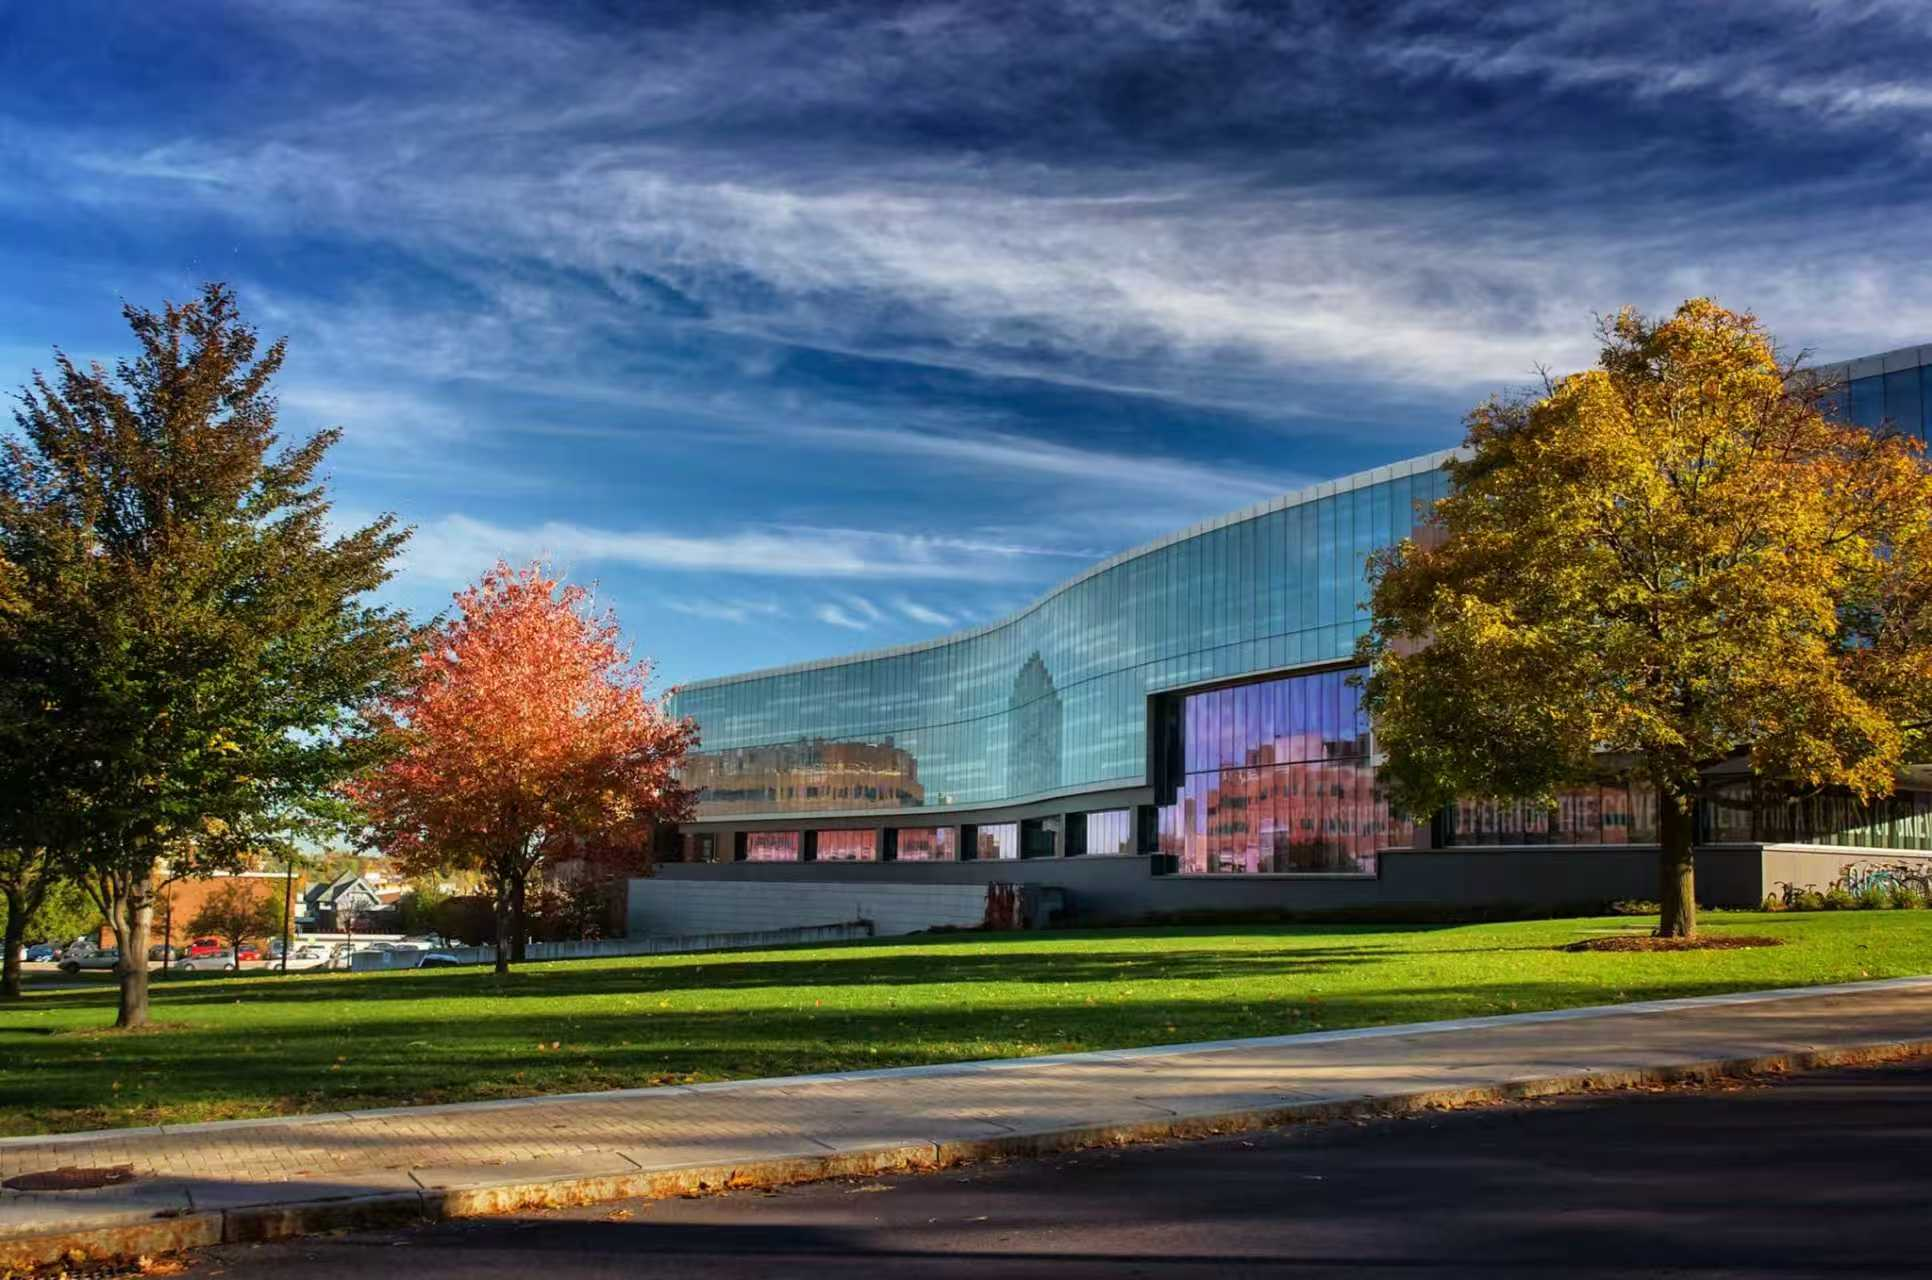
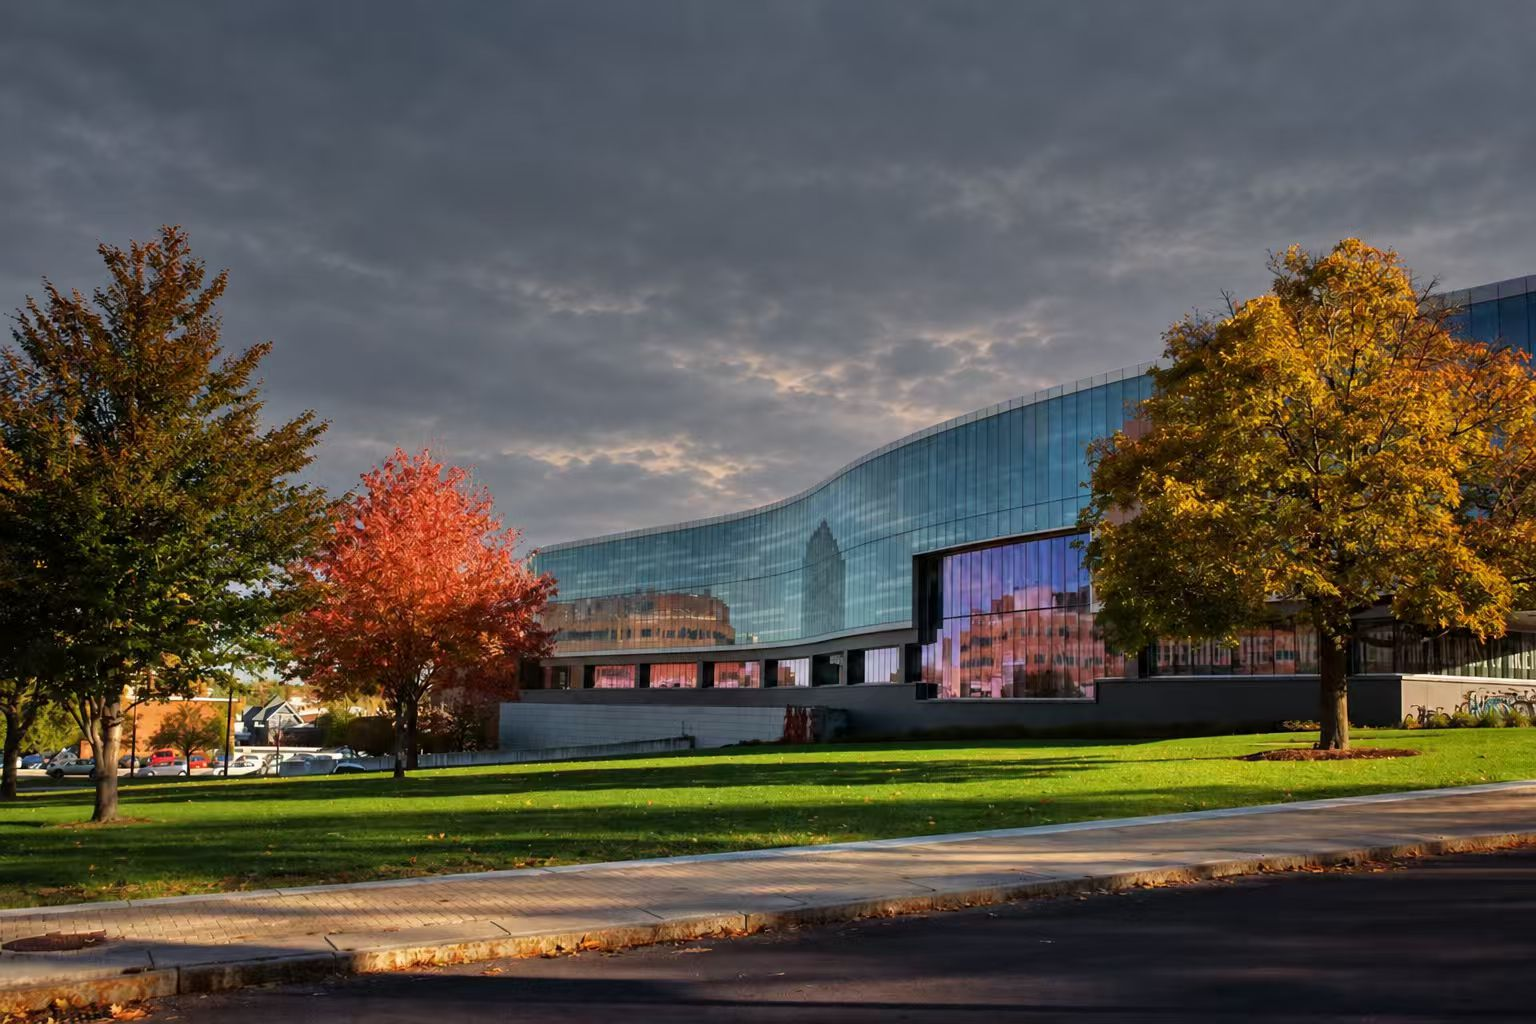
Use the new cloudy-sky hero photos and stop the line animation
- The hero shows the new autumn and winter photos directly. They carry
  their own sky, so the sky cutouts and the matting scripts are removed.
- The flowing-line backdrop no longer animates: it is drawn once on the
  inner pages and redrawn only on resize. The hero no longer uses it.

diff --git a/src/components/FlowLines.tsx b/src/components/FlowLines.tsx
@@ -7,19 +7,16 @@ type Bundle = {
   spread: number; // bundle thickness, fraction of height
   amp: number; // main wave amplitude, fraction of height
   waves: number; // main wave periods across the width
-  speed: number;
   phase: number;
 };
 
-// Two silk-like bundles drifting in opposite directions.
+// Two silk-like bundles of curves.
 const BUNDLES: Bundle[] = [
-  { y: 0.2, tilt: 0.12, lines: 20, spread: 0.26, amp: 0.07, waves: 0.85, speed: 0.05, phase: 0 },
-  { y: 0.52, tilt: -0.2, lines: 15, spread: 0.18, amp: 0.05, waves: 1.15, speed: -0.04, phase: 2.4 },
+  { y: 0.2, tilt: 0.12, lines: 20, spread: 0.26, amp: 0.07, waves: 0.85, phase: 0 },
+  { y: 0.52, tilt: -0.2, lines: 15, spread: 0.18, amp: 0.05, waves: 1.15, phase: 2.4 },
 ];
 
-const FRAME_MS = 1000 / 30;
-
-/** Dark night backdrop with faint, slowly flowing lines. */
+/** Dark night backdrop with faint, static flowing lines. Redrawn only on resize. */
 export default function FlowLines({ className = '' }: { className?: string }) {
   const canvasRef = useRef<HTMLCanvasElement>(null);
 
@@ -28,15 +25,12 @@ export default function FlowLines({ className = '' }: { className?: string }) {
     const context = canvas?.getContext('2d');
     if (!canvas || !context) return;
 
-    const reducedMotion = window.matchMedia('(prefers-reduced-motion: reduce)');
-    let width = 0;
-    let height = 0;
-    let dpr = 1;
-    let raf = 0;
-    let last = 0;
-
-    const draw = (time: number) => {
-      const t = time / 1000;
+    const draw = () => {
+      const dpr = Math.min(window.devicePixelRatio || 1, 2);
+      const width = canvas.clientWidth;
+      const height = canvas.clientHeight;
+      canvas.width = Math.round(width * dpr);
+      canvas.height = Math.round(height * dpr);
       context.setTransform(dpr, 0, 0, dpr, 0, 0);
 
       const sky = context.createLinearGradient(0, 0, 0, height);
@@ -57,12 +51,12 @@ export default function FlowLines({ className = '' }: { className?: string }) {
           context.beginPath();
           for (let x = -step; x <= width + step; x += step) {
             const u = x / width;
-            const breathe = 1 + 0.32 * Math.sin(u * 2.6 + t * b.speed * 5 + b.phase);
+            const breathe = 1 + 0.32 * Math.sin(u * 2.6 + b.phase);
             const y = height * (
               b.y + b.tilt * u
               + k * b.spread * breathe
-              + b.amp * Math.sin(u * b.waves * Math.PI * 2 + t * b.speed * 8 + b.phase + k * 0.9)
-              + 0.018 * Math.sin(u * 7.3 - t * b.speed * 6 + k * 2.2)
+              + b.amp * Math.sin(u * b.waves * Math.PI * 2 + b.phase + k * 0.9)
+              + 0.018 * Math.sin(u * 7.3 + k * 2.2)
             );
             if (x === -step) context.moveTo(x, y);
             else context.lineTo(x, y);
@@ -72,42 +66,9 @@ export default function FlowLines({ className = '' }: { className?: string }) {
       }
     };
 
-    const frame = (time: number) => {
-      raf = requestAnimationFrame(frame);
-      if (time - last < FRAME_MS) return;
-      last = time;
-      draw(time);
-    };
-
-    const start = () => {
-      cancelAnimationFrame(raf);
-      raf = 0;
-      if (reducedMotion.matches || document.hidden) draw(0);
-      else raf = requestAnimationFrame(frame);
-    };
-
-    const resize = () => {
-      dpr = Math.min(window.devicePixelRatio || 1, 2);
-      width = canvas.clientWidth;
-      height = canvas.clientHeight;
-      canvas.width = Math.round(width * dpr);
-      canvas.height = Math.round(height * dpr);
-      draw(performance.now());
-    };
-
-    const observer = new ResizeObserver(resize);
+    const observer = new ResizeObserver(draw);
     observer.observe(canvas);
-    resize();
-    start();
-    document.addEventListener('visibilitychange', start);
-    reducedMotion.addEventListener('change', start);
-
-    return () => {
-      cancelAnimationFrame(raf);
-      observer.disconnect();
-      document.removeEventListener('visibilitychange', start);
-      reducedMotion.removeEventListener('change', start);
-    };
+    return () => observer.disconnect();
   }, []);
 
   return <canvas ref={canvasRef} className={`flow-lines ${className}`} aria-hidden="true" />;

diff --git a/src/components/RevealLayer.tsx b/src/components/RevealLayer.tsx
@@ -12,15 +12,14 @@ const SPOTLIGHT_STOPS: [number, number][] = [
   [0, 1], [0.4, 1], [0.6, 0.75], [0.75, 0.4], [0.88, 0.12], [1, 0],
 ];
 
-/** The photographs ship pre-matted (transparent sky), so they only need decoding. */
-async function loadCutout(src: string) {
+async function loadPhoto(src: string) {
   const image = new Image();
   image.src = src;
   await image.decode();
   return image;
 }
 
-/** Mix the two foregrounds in one canvas, above a single independent sky. */
+/** Show the autumn photo, with the winter one revealed in a soft circle under the cursor. */
 export default function RevealLayer({ autumnImage, winterImage, radius = 260 }: RevealLayerProps) {
   const canvasRef = useRef<HTMLCanvasElement>(null);
 
@@ -67,8 +66,7 @@ export default function RevealLayer({ autumnImage, winterImage, radius = 260 }: 
         mask.addColorStop(offset, `rgba(0, 0, 0, ${alpha})`);
       });
 
-      // Both operations finish in this frame; no CSS mask or second animated
-      // sky is involved. Sky pixels remain transparent through the whole mix.
+      // Both operations finish in this frame; no CSS mask is involved.
       context.globalCompositeOperation = 'destination-out';
       context.fillStyle = mask;
       context.fillRect(left, top, w, h);
@@ -81,7 +79,7 @@ export default function RevealLayer({ autumnImage, winterImage, radius = 260 }: 
       bufferContext.fillRect(0, 0, width, height);
 
       // Add premultiplied contributions A*(1-mask) + W*mask. Source-over
-      // would apply the feather twice and leak the sky through opaque scenery.
+      // would apply the feather twice and leave a dark ring in the blend.
       context.globalCompositeOperation = 'lighter';
       context.drawImage(winterBuffer, 0, 0);
       context.globalCompositeOperation = 'source-over';
@@ -128,7 +126,7 @@ export default function RevealLayer({ autumnImage, winterImage, radius = 260 }: 
     });
     resizeObserver.observe(canvas);
 
-    void Promise.all([loadCutout(autumnImage), loadCutout(winterImage)]).then(([autumn, winter]) => {
+    void Promise.all([loadPhoto(autumnImage), loadPhoto(winterImage)]).then(([autumn, winter]) => {
       if (disposed) return;
       photos = [autumn, winter];
       canvas.width = winterBuffer.width = autumn.naturalWidth;

diff --git a/src/pages/Home.tsx b/src/pages/Home.tsx
@@ -1,8 +1,7 @@
-import FlowLines from '../components/FlowLines';
 import RevealLayer from '../components/RevealLayer';
 import { href } from '../lib/router';
-import heroAutumn from '../assets/hero-autumn-cutout.webp';
-import heroWinter from '../assets/hero-winter-cutout.webp';
+import heroAutumn from '../assets/hero-autumn.jpg';
+import heroWinter from '../assets/hero-winter.jpg';
 
 export default function Home() {
   return (
@@ -11,7 +10,6 @@ export default function Home() {
         NHISA: community and career resources for Newhouse international students and alumni
       </h1>
       <div className="hero-scene" aria-hidden="true">
-        <FlowLines />
         <RevealLayer autumnImage={heroAutumn} winterImage={heroWinter} />
       </div>
 

diff --git a/src/index.css b/src/index.css
@@ -40,7 +40,7 @@ body { margin: 0; background: #03060b; color: #fff; }
   isolation: isolate;
 }
 
-.hero-scene, .hero-scene .flow-lines, .scenery, .hero-scrim {
+.hero-scene, .scenery, .hero-scrim {
   position: absolute;
   inset: 0;
   width: 100%;

diff --git a/README.md b/README.md
@@ -21,7 +21,7 @@ Pushing to `main` builds the site and publishes `dist/` to GitHub Pages.
 
 | Route | Content |
 | --- | --- |
-| `#/` | Hero: the campus photo over an animated night sky; the cursor reveals the winter version |
+| `#/` | Hero: the autumn campus photo; the cursor reveals the winter version |
 | `#/school` | School Experience: Community, Experience, Academics, IT Support |
 | `#/job` | Job Knowledge: LinkedIn, Handshake, Email Signature, Job Search, Career Planning, and the NHISA toolkits |
 | `#/job/email-signature/laptop`, `/phone`, `/sample` | Step-by-step Outlook guides and a copyable sample signature |
@@ -39,19 +39,6 @@ All copy and links live in `src/content/`:
 
 The sample signature itself is in `src/pages/job/EmailSignature.tsx`. The Outlook screenshots in `src/assets/email/` have the original account name and address replaced with placeholders.
 
-## Hero cutouts
+## Hero photos
 
-`src/assets/hero-autumn-cutout.webp` and `hero-winter-cutout.webp` are the original photos (`hero-autumn.jpg`, `hero-winter.jpg`) with the sky removed, so the animated backdrop shows through. They are made offline with the scripts in `tools/matte/`:
-
-1. `segment.py` finds the sky with SegFormer-B5 (ADE20K), averaged over three scales and mirrored passes.
-2. `matte.py` refines it: the roof edge is detected column by column for a crisp line, tree edges are unmixed between the local sky and foliage colours (so holes between branches become transparent and thin twigs stay), and edge pixels are cleaned of the old sky colour.
-3. `preview.py` composites the result over a dark backdrop with close-up crops for checking.
-
-```sh
-pip install torch transformers opencv-python numpy pymatting
-python tools/matte/segment.py src/assets/hero-autumn.jpg sky-autumn.npy
-python tools/matte/matte.py src/assets/hero-autumn.jpg sky-autumn.npy autumn.png
-python -c "from PIL import Image; Image.open('autumn.png').save('src/assets/hero-autumn-cutout.webp', quality=90, method=6)"
-```
-
-Repeat with `winter` for the second photo. The file name selects the colour thresholds for each season.
+`src/assets/hero-autumn.jpg` is shown by default and `hero-winter.jpg` is revealed under the cursor. The two must keep the same size and framing so the reveal lines up. Inner pages sit on a dark backdrop of faint, static lines drawn by `src/components/FlowLines.tsx`.
